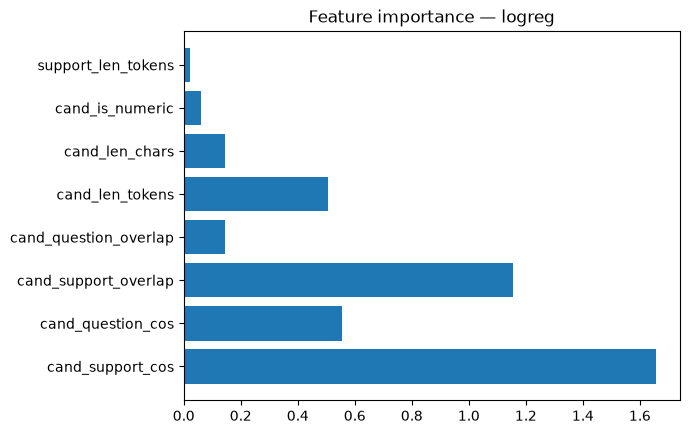
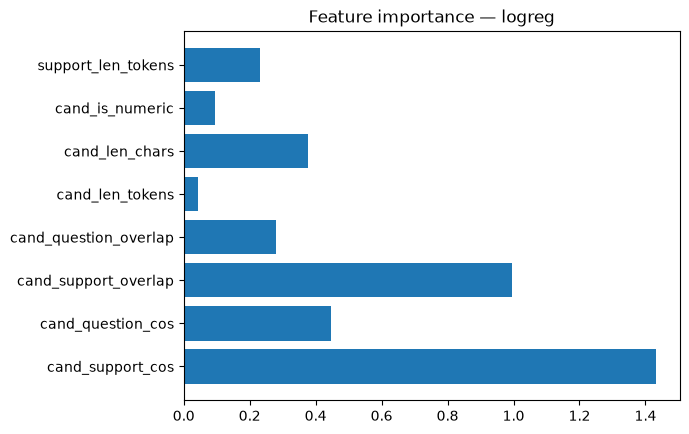
feat(ml): character features, MMLU in training, LLM decides when the scorer is unsure

diff --git a/tests/test_short_answer.py b/tests/test_short_answer.py
@@ -98,6 +98,7 @@ def test_scorer_ranks_a_good_paraphrase_correct(monkeypatch):
 
 def test_scorer_puts_an_answer_above_distractors_but_below_the_bar_in_near(monkeypatch):
     monkeypatch.setattr(sa, "T_RATIO", 0.8)
+    monkeypatch.setattr(sa, "MIN_MARGIN", 0.0)   # this branch, not the confidence gate
     scorer = StubScorer({"gas": 0.5, "carbon dioxide": 0.9,
                          "oxygen": 0.3, "nitrogen": 0.2, "argon": 0.1})
     out = sa.grade("gas", "carbon dioxide", Q, D, "support", scorer)
@@ -106,6 +107,7 @@ def test_scorer_puts_an_answer_above_distractors_but_below_the_bar_in_near(monke
 
 def test_scorer_puts_an_answer_below_a_distractor_in_wrong(monkeypatch):
     monkeypatch.setattr(sa, "T_RATIO", 0.8)
+    monkeypatch.setattr(sa, "MIN_MARGIN", 0.0)   # this branch, not the confidence gate
     scorer = StubScorer({"water": 0.2, "carbon dioxide": 0.9,
                          "oxygen": 0.3, "nitrogen": 0.2, "argon": 0.1})
     out = sa.grade("water", "carbon dioxide", Q, D, "support", scorer)
@@ -169,3 +171,28 @@ def test_a_typed_answer_sharing_no_word_with_a_short_reference_cannot_be_scorer_
                          "oxygen": 0.3, "nitrogen": 0.2, "argon": 0.1})
     out = sa.grade("unrelated words", "carbon dioxide", Q, D, "support", scorer)
     assert (out["verdict"], out["how"]) == ("near", "scorer")
+
+
+# ---- only a confident scorer decides ----------------------------------------------
+
+def test_an_unsure_scorer_hands_the_answer_to_the_llm():
+    # Typed answer and best distractor almost tied: notebook 11 found the
+    # scorer is right only about a third of the time on such university
+    # questions, so it may not call the answer right or wrong.
+    scorer = StubScorer({"malicious input": 0.42, "SQL injection": 0.9, "Phishing": 0.40,
+                         "Spoofing": 0.1, "Sniffing": 0.1})
+    out = sa.grade("malicious input", "SQL injection", "Which attack inserts code into a query?",
+                   ["Phishing", "Spoofing", "Sniffing"], "SQL injection inserts malicious input.", scorer)
+    assert out["verdict"] == "near" and out["how"] == "unsure"
+
+
+def test_a_confident_scorer_still_decides():
+    scorer = StubScorer({"co2": 0.9, "carbon dioxide": 0.95, "oxygen": 0.1, "nitrogen": 0.1, "argon": 0.1})
+    out = sa.grade("co2", "carbon dioxide", Q, D, "Plants absorb carbon dioxide.", scorer)
+    assert out["how"] == "scorer"
+
+
+def test_a_confident_wrong_answer_is_still_wrong():
+    scorer = StubScorer({"sand": 0.05, "carbon dioxide": 0.95, "oxygen": 0.8, "nitrogen": 0.1, "argon": 0.1})
+    out = sa.grade("sand", "carbon dioxide", Q, D, "Plants absorb carbon dioxide.", scorer)
+    assert out["verdict"] == "wrong" and out["how"] == "scorer"

diff --git a/ml_pipeline/train_models.py b/ml_pipeline/train_models.py
@@ -129,13 +129,37 @@ def _save_reports(best_name, best_scorer, val_comparison, test_metrics, baseline
     }, indent=2))
 
 
-def train_all(sciq_df: pd.DataFrame | None = None, save: bool = True) -> dict:
+def _beyond_science() -> pd.DataFrame:
+    """The train half of the MMLU university questions with their Wikipedia
+    passages (mmlu_support), or nothing when they have not been fetched."""
+    from . import mmlu_support
+    cache = mmlu_support.load_cache()
+    if not cache:
+        return pd.DataFrame()
+    df = mmlu_support.with_support(mmlu_support.to_sciq_shape(mmlu_support.load()),
+                                   fetch=lambda q: "", cache=cache)
+    return df[df["split"] == "train"]
+
+
+def train_all(sciq_df: pd.DataFrame | None = None, save: bool = True,
+              with_beyond_science: bool = False) -> dict:
+    """Train, select and save the answer scorer. Model selection and the
+    reported test score stay on SciQ; `with_beyond_science` adds the MMLU
+    train half (security, computing, business) to the training rows, which
+    notebook 11 found lifts university questions without hurting SciQ."""
     if sciq_df is None:
         from .dataset_loader import load_scorer_training_data
         sciq_df = load_scorer_training_data()
 
     long = expand_candidates(sciq_df)
     train_long = long[long["split"] == "train"]
+    if with_beyond_science:
+        extra = _beyond_science()
+        if len(extra):
+            extra_long = expand_candidates(extra)
+            # Question ids must not collide once the two sets are stacked.
+            extra_long = extra_long.assign(question_id=extra_long["question_id"] + 10**6)
+            train_long = pd.concat([train_long, extra_long], ignore_index=True)
     val_long = long[long["split"] == "val"]
     test_long = long[long["split"] == "test"]
     # tiny-data guard: fall back to the test split if no validation rows exist
@@ -146,7 +170,7 @@ def train_all(sciq_df: pd.DataFrame | None = None, save: bool = True) -> dict:
     # 1. Compare every model on the SAME validation split.
     val_comparison, scorers = {}, {}
     for name, clf in _candidates().items():
-        scorer = AnswerScorer(classifier=clf).fit(train_long)
+        scorer = AnswerScorer(classifier=clf, analyzer=config.SCORER_ANALYZER).fit(train_long)
         scorers[name] = scorer
         val_comparison[name] = evaluate(scorer, val_long)
 
@@ -173,7 +197,7 @@ def train_all(sciq_df: pd.DataFrame | None = None, save: bool = True) -> dict:
 
 
 def main() -> None:
-    result = train_all()
+    result = train_all(with_beyond_science=True)
     print(json.dumps(result, indent=2))
 
 

diff --git a/ml_pipeline/features/answer_features.py b/ml_pipeline/features/answer_features.py
@@ -3,7 +3,7 @@ from __future__ import annotations
 
 import numpy as np
 import pandas as pd
-from sklearn.feature_extraction.text import TfidfVectorizer
+from sklearn.feature_extraction.text import HashingVectorizer, TfidfVectorizer
 
 from .. import config
 
@@ -66,16 +66,29 @@ class FeatureBuilder:
         "cand_is_numeric", "support_len_tokens",
     ]
 
-    def __init__(self):
-        self.vectorizer: TfidfVectorizer | None = None
+    def __init__(self, analyzer: str = "word"):
+        # "word": a word vocabulary learnt from the training text (the original
+        # model). "char": character 3-5-grams within words, so a term the
+        # training text never had (e.g. "injection" after school science) still
+        # matches itself in the support. Chosen in notebooks/11_answer_scorer_domains.
+        self.analyzer = analyzer
+        self.vectorizer: TfidfVectorizer | HashingVectorizer | None = None
 
     def fit(self, long_df: pd.DataFrame) -> "FeatureBuilder":
         corpus = pd.concat([long_df["support"], long_df["question"]]).astype(str)
-        self.vectorizer = TfidfVectorizer(
-            max_features=config.TFIDF_MAX_FEATURES,
-            ngram_range=config.TFIDF_NGRAM,
-            stop_words="english",
-        ).fit(corpus)
+        if getattr(self, "analyzer", "word") == "char":
+            # Hashed, not fitted: a learnt vocabulary of character n-grams would
+            # still miss the n-grams of words the training text never had.
+            self.vectorizer = HashingVectorizer(
+                analyzer="char_wb", ngram_range=(3, 5), n_features=2 ** 20,
+                alternate_sign=False, norm="l2", lowercase=True,
+            )
+        else:
+            self.vectorizer = TfidfVectorizer(
+                max_features=config.TFIDF_MAX_FEATURES,
+                ngram_range=config.TFIDF_NGRAM,
+                stop_words="english",
+            ).fit(corpus)
         return self
 
     def transform(self, long_df: pd.DataFrame) -> np.ndarray:

diff --git a/ml_pipeline/services/short_answer.py b/ml_pipeline/services/short_answer.py
@@ -7,6 +7,7 @@ Rules, in order — the first that decides wins:
   2c. reference longer than the scorer   -> near   (the LLM tier's case)
       was trained on
   3. AnswerScorer ranking                -> correct / near / wrong
+     (near whenever the typed answer and the best distractor are close)
 An LLM tie-break for `near` lives in the Django layer (quizzes/services/
 typed_grading.py); this module stays importable without Django so the
 notebook and the pure tests can drive it.
@@ -27,6 +28,12 @@ T_RATIO = 0.6    # 0.985 / recall 0.994 with support; 0.994 / 0.964 without.
 # 14-word reference 0.012 and an unrelated typed answer 0.023 — so past this
 # length the scorer is not consulted and the case goes to the LLM tier.
 MAX_SCORER_REFERENCE_WORDS = 4
+
+# The scorer decides only when the typed answer and the best distractor are
+# this far apart. Closer, it is unreliable: notebook 11 found it right on 33% of
+# university questions overall but on 71% of those it ranks with a gap of at
+# least 0.4 (98.7% on school science); the rest go to the LLM tier.
+MIN_MARGIN = 0.4
 
 _LEADING_ARTICLE = re.compile(r"^(a|an|the)\s+")
 _NON_WORD = re.compile(r"[^\w\s]")
@@ -90,6 +97,8 @@ def grade(typed: str, reference: str, question: str, distractors: list[str],
     # "near", which hands the case to the LLM tier or the student's override.
     # ...and a shared word with the reference: with none, the scorer has
     # nothing to anchor on ("CO2" for "carbon dioxide" is the LLM's call).
+    if abs(s_typed - s_dmax) < MIN_MARGIN:
+        return _verdict("near", "unsure", scores)
     if (support.strip() and similarity > 0
             and s_typed >= s_dmax and s_typed >= T_RATIO * s_ref):
         return _verdict("correct", "scorer", scores)

diff --git a/tests/test_answer_scorer.py b/tests/test_answer_scorer.py
@@ -26,3 +26,32 @@ def test_scorer_fit_rank_save_load(tmp_path, sciq_raw_df):
         - scorer.score("What gas do plants absorb?", "carbon dioxide",
                        "Plants absorb carbon dioxide from the air.")
     ) < 1e-9
+
+
+def _science_long():
+    import pandas as pd
+    return pd.DataFrame({
+        'question_id': [0, 0], 'question': ['What gas do plants release?'] * 2,
+        'support': ['Plants release oxygen during photosynthesis.'] * 2,
+        'candidate': ['oxygen', 'nitrogen'], 'is_correct': [1, 0], 'split': ['train'] * 2,
+    })
+
+
+def test_character_features_see_words_the_training_text_never_had():
+    # Fitted on school science, a word-level vocabulary has no "injection",
+    # so a security answer looks unrelated to its own source; characters do not.
+    import pandas as pd
+    from ml_pipeline.features.answer_features import FeatureBuilder
+    probe = pd.DataFrame({'question': ['Which attack inserts code into a query?'],
+                          'support': ['SQL injection inserts malicious statements into a query.'],
+                          'candidate': ['SQL injection']})
+    word = FeatureBuilder().fit(_science_long()).transform(probe)
+    char = FeatureBuilder(analyzer='char').fit(_science_long()).transform(probe)
+    assert word[0, 0] == 0.0 and char[0, 0] > 0.3
+
+
+def test_a_builder_saved_before_the_option_existed_still_works():
+    from ml_pipeline.features.answer_features import FeatureBuilder
+    fb = FeatureBuilder().fit(_science_long())
+    del fb.analyzer                       # as unpickled from an older model file
+    assert fb.transform(_science_long()).shape == (2, len(FeatureBuilder.FEATURE_NAMES))

diff --git a/tests/test_train_models.py b/tests/test_train_models.py
@@ -60,3 +60,30 @@ def test_train_all_defaults_to_scorer_training_pool(monkeypatch):
 
     assert called["pool"] is True
     assert "best_model" in result
+
+
+def _toy_beyond():
+    # University-style questions: train half only, as mmlu_support gives them.
+    return pd.DataFrame([{
+        "question": f"Which control blocks attack {i}?", "correct_answer": f"firewall{i}",
+        "distractor1": f"router{i}", "distractor2": f"switch{i}", "distractor3": f"hub{i}",
+        "support": f"A firewall{i} blocks attack {i} at the network edge.", "split": "train",
+        "subject": "computer_security"} for i in range(6)])
+
+
+def test_the_scorer_learns_characters_and_extra_subjects(tmp_path, monkeypatch):
+    monkeypatch.setattr(config, "MODELS_DIR", tmp_path / "models")
+    monkeypatch.setattr(config, "REPORTS_DIR", tmp_path / "reports")
+    monkeypatch.setattr(train_models, "_beyond_science", _toy_beyond)
+    train_models.train_all(sciq_df=_toy_sciq(), save=True, with_beyond_science=True)
+
+    scorer = train_models.AnswerScorer.load(tmp_path / "models" / "answer_scorer.joblib")
+    assert scorer.feature_builder.analyzer == config.SCORER_ANALYZER == "char"
+    assert "firewall0" in "".join(scorer.rank("Which control blocks attack 0?",
+                                              ["firewall0", "router0"], "A firewall0 blocks attack 0.")[0][0])
+
+
+def test_without_extra_subjects_only_science_is_used(monkeypatch):
+    monkeypatch.setattr(train_models, "_beyond_science", lambda: (_ for _ in ()).throw(AssertionError("not wanted")))
+    result = train_models.train_all(sciq_df=_toy_sciq(), save=False)
+    assert "best_model" in result

diff --git a/ml_pipeline/answer_scorer.py b/ml_pipeline/answer_scorer.py
@@ -14,13 +14,13 @@ from .features.answer_features import FeatureBuilder
 
 
 class AnswerScorer:
-    def __init__(self, classifier=None):
+    def __init__(self, classifier=None, analyzer: str = "word"):
         if classifier is None:
             classifier = LogisticRegression(
                 class_weight="balanced", max_iter=1000,
                 random_state=config.RANDOM_SEED)
         self.classifier = classifier
-        self.feature_builder = FeatureBuilder()
+        self.feature_builder = FeatureBuilder(analyzer=analyzer)
         self.scaler = StandardScaler()
 
     def fit(self, train_long_df: pd.DataFrame) -> "AnswerScorer":
@@ -58,3 +58,4 @@ class AnswerScorer:
     @classmethod
     def load(cls, path) -> "AnswerScorer":
         return joblib.load(Path(path))
+

diff --git a/backend/ml/management/commands/ensure_ml_model.py b/backend/ml/management/commands/ensure_ml_model.py
@@ -30,7 +30,7 @@ class Command(BaseCommand):
 
         action = "Retraining" if model_path.exists() else "Training"
         self.stdout.write(f"{action} answer scorer -> {model_path}")
-        result = train_all(save=True)
+        result = train_all(save=True, with_beyond_science=True)
         self.stdout.write(
             f"  best_model={result['best_model']} "
             f"accuracy@1={result['test_metrics']['accuracy_at_1']:.4f}"

diff --git a/ml_pipeline/config.py b/ml_pipeline/config.py
@@ -25,6 +25,9 @@ AIF_GLOB = "*Part*.csv"
 
 TFIDF_MAX_FEATURES = 20000
 TFIDF_NGRAM = (1, 2)
+# How the answer scorer compares text: hashed character n-grams, which still
+# match words the training text never had. Chosen in notebook 11.
+SCORER_ANALYZER = "char"
 
 PROCESSED_FILES = {
     "sciq": PROCESSED_DIR / "sciq.parquet",
